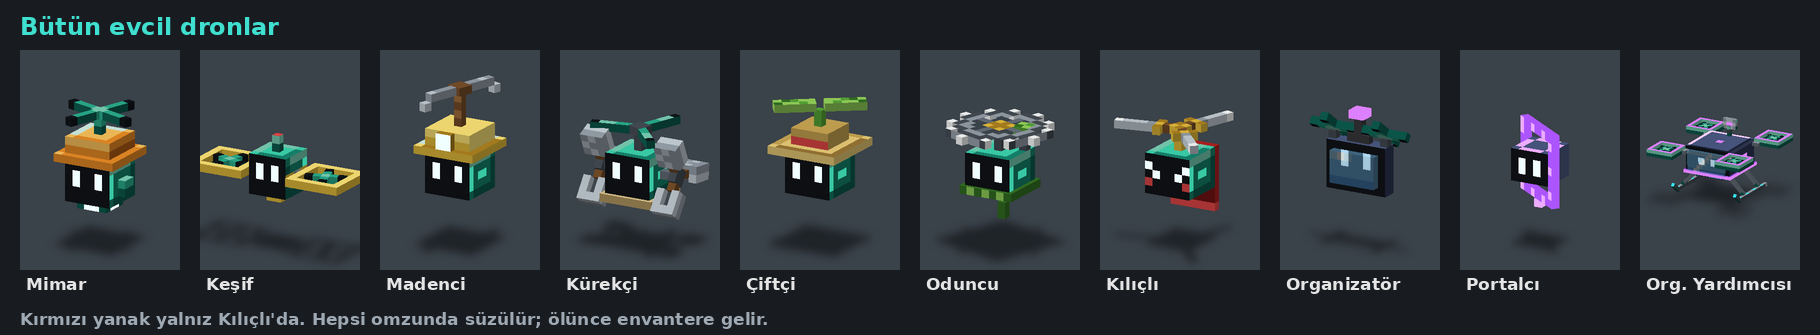
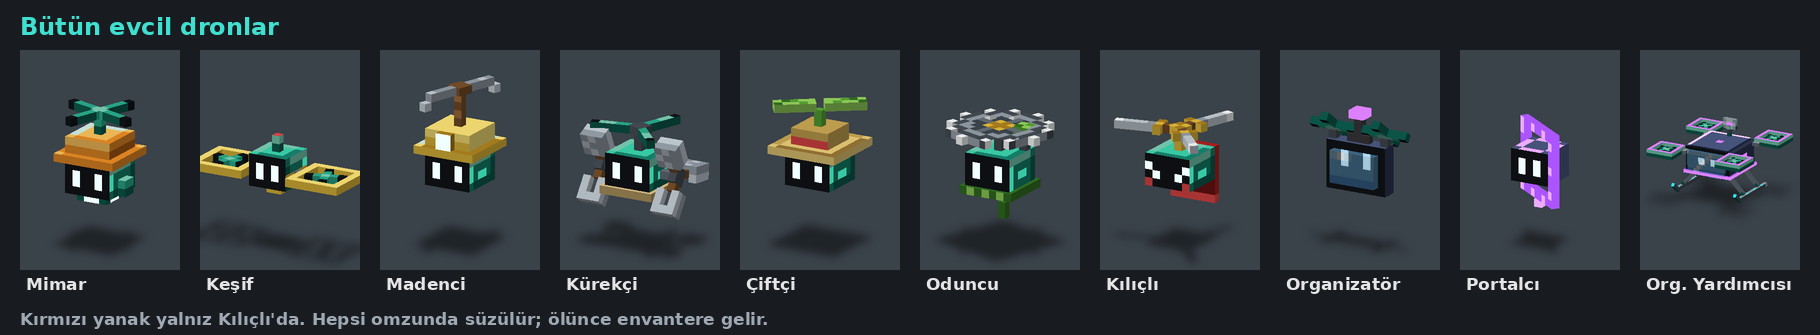
Dron gövdeleri alttan 1 piksel kısaldı (Portalcı, Organizatör, Oduncu hariç); Kılıçlı pelerini 1 piksel kısaldı
Claude-Session: https://claude.ai/code/session_016dSUtqjRQFdnbyLYXoqgnG

diff --git a/aqualit/tasarim/evcil.py b/aqualit/tasarim/evcil.py
@@ -47,18 +47,22 @@ def pervane(f, bone, ad, c, r, y, eksen='y'):
 from robot import plate, put, G
 
 
-def yuz6(renk='M', sert=False):
-    """Çerçevesiz tam ekran yüz (6x5)."""
-    from ortak import YUZ6, YUZ6_SERT
+def yuz6(renk='M', sert=False, kisa=True):
+    """Çerçevesiz tam ekran yüz (6x4; kisa=False: 6x5)."""
+    from ortak import YUZ6, YUZ6_SERT, YUZ6_KISA, YUZ6_SERT_KISA
+    if kisa:
+        return [list(r) for r in (YUZ6_SERT_KISA if sert else YUZ6_KISA)]
     return [list(r) for r in (YUZ6_SERT if sert else YUZ6)]
 
 
-def govde6(f, renk='M', sert=False, y0=3):
-    """Mimar dronu boyunda gövde (6x5x6), önde yüz."""
-    yan = plate(6, 5, renk, top='H', bottom='D', left='L', right='D')
+def govde6(f, renk='M', sert=False, y0=3, kisa=True):
+    """Mimar dronu boyunda gövde (6x4x6; alttan 1 piksel kısa), önde yüz. kisa=False: 6x5x6 (Oduncu)."""
+    h = 4 if kisa else 5
+    y0 = y0 + (1 if kisa else 0)
+    yan = plate(6, h, renk, top='H', bottom='D', left='L', right='D')
     yan[2][2] = yan[2][3] = 'L'
-    kutu(f, 'g', 'govde', (-3, y0, -3), (3, y0 + 5, 3), base=renk, front=yuz6(renk, sert), left=yan,
-         right=[r[:] for r in yan], back=plate(6, 5, renk), top=plate(6, 6, 'L', top='H', bottom='M', left='H', right='M'),
+    kutu(f, 'g', 'govde', (-3, y0, -3), (3, y0 + h, 3), base=renk, front=yuz6(renk, sert, kisa), left=yan,
+         right=[r[:] for r in yan], back=plate(6, h, renk), top=plate(6, 6, 'L', top='H', bottom='M', left='H', right='M'),
          glow='WL')
 
 
@@ -90,7 +94,7 @@ def kasik(f, bone, ad, cx, y0):
 def kurekci(f):
     # iki yanda tekerlek gibi dik dönen 3 kaşıklı pervane (kumu arkaya atar); üstte normal 3 kanatlı pervane
     govde6(f)
-    kutu(f, 'g', 'bot', (-3.5, 2, -3.5), (3.5, 3, 3.5), base='N', top=fill(7, 7, 'n'))
+    kutu(f, 'g', 'bot', (-3.5, 3, -3.5), (3.5, 4, 3.5), base='N', top=fill(7, 7, 'n'))
     for ad, sx in (('l', -1), ('r', 1)):
         cx = sx * 5
         kutu(f, 'g', 'aks_' + ad, (min(sx * 3, sx * 5), 5, -0.5), (max(sx * 3, sx * 5), 6, 0.5), base='&')
@@ -123,8 +127,8 @@ def ciftci(f):
 
 def oduncu(f):
     # yeşil atkı, antenin ucunda yaprak, sırtta küçük balta; tepede yatay dönen daire testere
-    # (11 piksel çaplı yuvarlak disk, 12 sivri diş, pirinç göbek, iki kesik çizgi)
-    govde6(f)
+    # (11 piksel çaplı yuvarlak disk, 12 sivri diş, pirinç göbek, içi boş, 4 çubuk)
+    govde6(f, kisa=False)
     kutu(f, 'g', 'atki', (-3.5, 3, -3.5), (3.5, 4, 3.5), base='E', front=rows('EfEfEfE'), top=fill(7, 7, 'E'))
     kutu(f, 'g', 'atki_uc', (2, 1, 3), (3, 3, 4), base='E')
     kutu(f, 'g', 'anten', (2, 8, -2), (3, 10, -1), base='%')
@@ -168,9 +172,9 @@ def kilicli(f):
     # kırmızı pelerin, kararlı bakış; tepede üç kılıçtan pervane (kabzalar göbekte, aralarında 120°)
     govde6(f, sert=True)
     # uzun pelerin: gövdenin altına kadar iner, ucu kırmızı şeritli
-    kutu(f, 'g', 'pelerin', (-3, 1, -4), (3, 8, -3), base='r', back=over(fill(6, 7, 'r'), rows('RRRRRR'), 0, 0),
-         front=fill(6, 7, 'q'))
-    kutu(f, 'g', 'pelerin_uc', (-3, 0, -4), (3, 1, -3), base='R')
+    kutu(f, 'g', 'pelerin', (-3, 2, -4), (3, 8, -3), base='r', back=over(fill(6, 6, 'r'), rows('RRRRRR'), 0, 0),
+         front=fill(6, 6, 'q'))
+    kutu(f, 'g', 'pelerin_uc', (-3, 1, -4), (3, 2, -3), base='R')
     kutu(f, 'g', 'mil', (-0.5, 8, -0.5), (0.5, 10, 0.5), base='y')
     f.bone('p_kilic', 'g', (0, 10.5, 0))
     kutu(f, 'p_kilic', 'k_gobek', (-1, 10, -1), (1, 11, 1), base='y', top=rows('yQ', 'Qy'))

diff --git a/aqualit/addon/gen/dron.py b/aqualit/addon/gen/dron.py
@@ -32,15 +32,16 @@ BONE = {'govde': 'body', 'baret_kenar': 'hat', 'baret_tepe': 'hat', 'direk': 'ha
 
 def parts():
     # v0.4: çerçevesiz tam ekran yüz: 2 piksellik dik ışıklı gözler; ağız ve kırmızı yanak yok
-    face = [list(r) for r in ('kkkkkk', 'kWkkWk', 'kWkkWk', 'kkkkkk', 'kkkkkk')]
-    side = plate(6, 5, 'M', top='H', bottom='D', left='L', right='D')
+    # (gövde alttan 1 piksel kısaldı: çerçevesiz ekranda gözlerin altında boşluk kalıyordu)
+    face = [list(r) for r in ('kkkkkk', 'kWkkWk', 'kWkkWk', 'kkkkkk')]
+    side = plate(6, 4, 'M', top='H', bottom='D', left='L', right='D')
     side[2][2] = 'L'
     side[2][3] = 'L'
-    back = plate(6, 5, 'M')
+    back = plate(6, 4, 'M')
     put(back, ['DD', 'DD'], 2, 1)
     top = plate(6, 6, 'L', top='H', bottom='M', left='H', right='M')
     out = [
-        box('govde', (-3, 2, -3), (3, 7, 3), front=face, back=back, left=side, right=side, top=top,
+        box('govde', (-3, 3, -3), (3, 7, 3), front=face, back=back, left=side, right=side, top=top,
             bottom=G(6, 6, 'D')),
         box('baret_kenar', (-4, 7, -4), (4, 8, 4), front=[['A'] * 8], back=[['C'] * 8], left=[['C'] * 8],
             right=[['A'] * 8], top=plate(8, 8, 'G', top='A', bottom='A', left='A', right='A'), bottom=G(8, 8, 'C')),
@@ -59,7 +60,7 @@ def parts():
             right=[['M', 'M'], ['D', 'D']], top=[['H'], ['H']], bottom=[['D'], ['D']]),
         box('kol_sol', (3, 3, -1), (4, 5, 1), front=[['L'], ['D']], back=[['D'], ['D']], left=[['M', 'M'], ['D', 'D']],
             right=[['L', 'L'], ['D', 'D']], top=[['H'], ['H']], bottom=[['D'], ['D']]),
-        box('itici', (-2, 1, -2), (2, 2, 2), front=[list('DWWD')], back=[list('DWWD')], left=[list('DWWD')],
+        box('itici', (-2, 2, -2), (2, 3, 2), front=[list('DWWD')], back=[list('DWWD')], left=[list('DWWD')],
             right=[list('DWWD')], top=G(4, 4, 'D'), bottom=plate(4, 4, 'W', top='L', bottom='L', left='L', right='L')),
     ]
     return out

diff --git a/aqualit/addon/gen/kesif_dron.py b/aqualit/addon/gen/kesif_dron.py
@@ -24,12 +24,12 @@ def model():
     f.bone('root', None, (0, 4.5, 0.5))
     f.bone('govde', 'root', (0, 4.5, 0.5))
     # gövde: 5x5x5 küp; önde ekran, ekranda iki dikey göz (1x2 piksel, ışıklı)
-    ekran = rows('kkkkk', 'kWkWk', 'kWkWk', 'kkkkk', 'kkkkk')   # v0.4: çerçevesiz tam ekran
-    yan = panel(5, 5, 'M')
+    ekran = rows('kkkkk', 'kWkWk', 'kWkWk', 'kkkkk')   # v0.4: çerçevesiz tam ekran
+    yan = panel(5, 4, 'M')
     hline(yan, 2, 'y', 0, 5)
-    add_box(f, 'govde', 'g_govde', (-2.5, 3, -2), (2.5, 8, 3), base='M', glow='WL',
-            **auto((-2.5, 3, -2), (2.5, 8, 3), base='M', front=ekran, side=yan, top=panel(5, 5, 'L', t='H', b='M', l='H', r='M')))
-    add_box(f, 'govde', 'g_alt', (-1, 2, -0.5), (1, 3, 1.5), base='y', **auto((-1, 2, -0.5), (1, 3, 1.5), base='y'))
+    add_box(f, 'govde', 'g_govde', (-2.5, 4, -2), (2.5, 8, 3), base='M', glow='WL',
+            **auto((-2.5, 4, -2), (2.5, 8, 3), base='M', front=ekran, side=yan, top=panel(5, 5, 'L', t='H', b='M', l='H', r='M')))
+    add_box(f, 'govde', 'g_alt', (-1, 3, -0.5), (1, 4, 1.5), base='y', **auto((-1, 3, -0.5), (1, 4, 1.5), base='y'))
     add_box(f, 'govde', 'g_anten', (-0.5, 8, 0), (0.5, 10, 1), base='&', **auto((-0.5, 8, 0), (0.5, 10, 1), base='&', top=rows('R')))
     # iki yanda yatay, tam kare çember (7x7) ve içinde yatay dönen pervane (Mimar dronundaki gibi)
     for t, x0 in (('l', -10), ('r', 3)):

diff --git a/aqualit/tasarim/ortak.py b/aqualit/tasarim/ortak.py
@@ -114,9 +114,11 @@ YUZ6 = ['kkkkkk',
         'kWkkWk',
         'kWkkWk',
         'kkkkkk',
-        'kkkkkk']          # 2 piksellik dik ışıklı gözler, ağız yok
+        'kkkkkk']
+YUZ6_KISA = YUZ6[:4]   # gövde alttan 1 piksel kısa          # 2 piksellik dik ışıklı gözler, ağız yok
 YUZ6_SERT = ['kkkkkk',
              'Wkkkkw'.replace('w', 'W'),
              'kWkkWk',
              'RkkkkR',
-             'kkkkkk']     # Kılıçlı: 2 piksellik kızgın (içe eğik) gözler, yanaklar gözün dış köşesi altında
+             'kkkkkk']
+YUZ6_SERT_KISA = YUZ6_SERT[:4]     # Kılıçlı: 2 piksellik kızgın (içe eğik) gözler, yanaklar gözün dış köşesi altında
